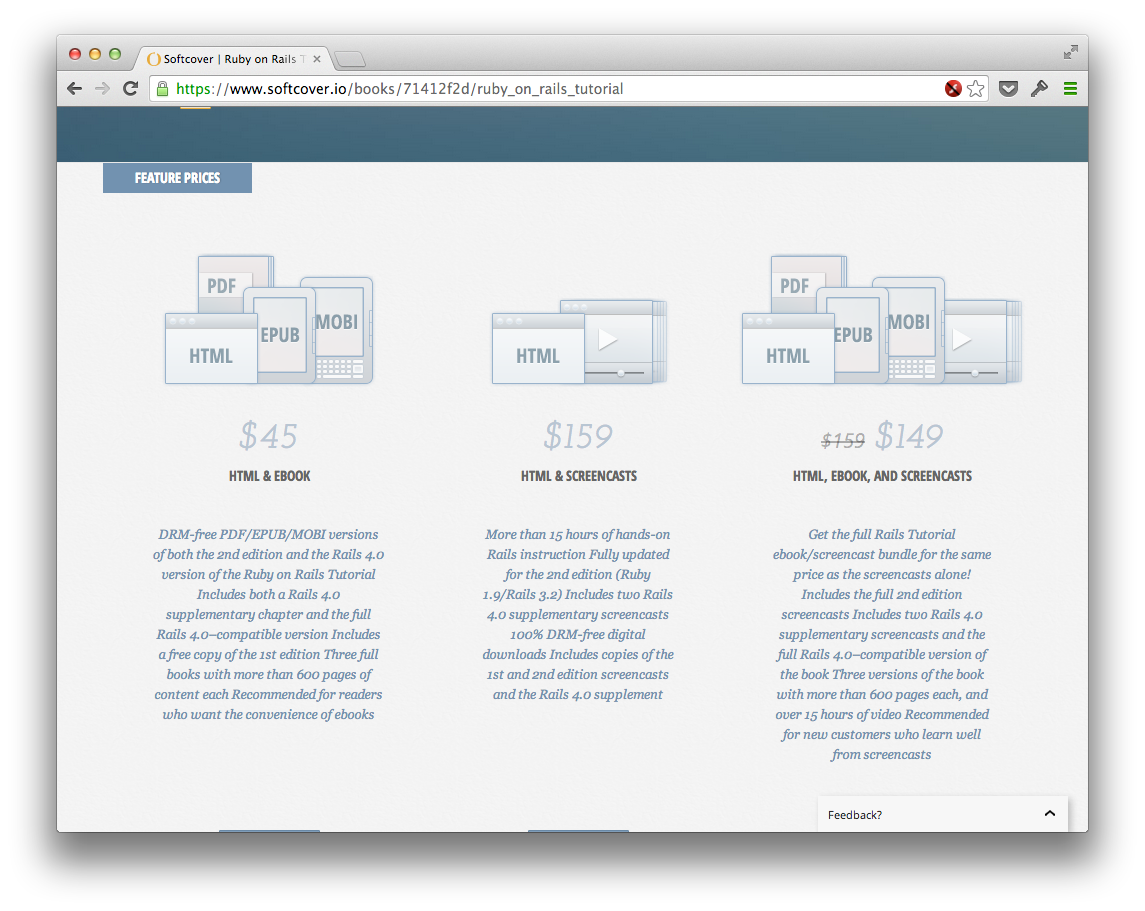
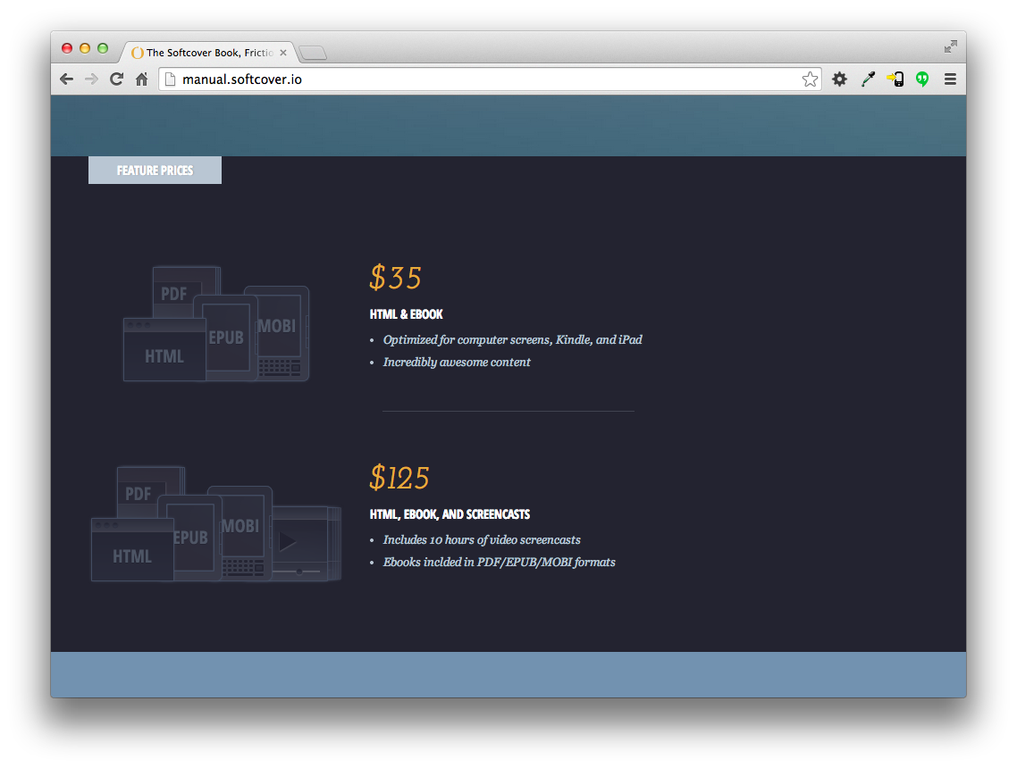
Update documentation for the new marketing.yml

diff --git a/chapters/marketing.md b/chapters/marketing.md
@@ -36,62 +36,32 @@ The marketing file allows you to create up to three product bundles, each with d
 ```yaml
 prices:
   -
-    code: ebooks # unique identifier (shouldn't be changed)
-    name: "HTML & Ebook" # appears as title of the option
-    description: # limited Markdown
-      |
-        Optimized for Kindle and iPad
-        Almost 9000 pages of content
-        Includes a free copy of 1st Edition PDF
-    media: # which downloadable media formats are included in this bundle
-      - html
-      - pdf
-      - epub
-      - mobi
-    price: 4500 # the price in cents
-  -
-    code: screencasts
-    name: "HTML & Screencasts"
+    code: ebooks
+    name: "HTML & Ebook"
     description:
       |
-        More than 15 hours of hands-on Rails instruction
-        Fully updated for the 2nd edition (Ruby 1.9/Rails 3.2)
-        Includes two Rails 4.0 supplementary screencasts
-        100% DRM-free digital downloads
-        Includes copies of the 1st and 2nd edition screencasts and the
-        Rails 4.0 supplement
+        * Optimized for computer screens, Kindle, and iPad
+        * Incredibly awesome content
     media:
-      - html
-      - screencasts
-    price: 15900
+      - ebooks
+    price: 3500
 
   -
     code: all
     name: "HTML, Ebook, and Screencasts"
     description:
       |
-        Get the full Rails Tutorial ebook/screencast bundle for the same
-        price as the screencasts alone!
-        Includes the full 2nd edition screencasts
-        Includes two Rails 4.0 supplementary screencasts and the full
-        Rails 4.0–compatible version of the book
-        Three versions of the book with more than 600 pages each, and
-        over 15 hours of video
-        Recommended for new customers who learn well from screencasts
+        * Includes 10 hours of video screencasts
+        * Ebooks inclded in PDF/EPUB/MOBI formats
     media:
-      - html
-      - pdf
-      - epub
-      - mobi
-      - screencasts
-    price: 14900
-    regular_price: 15900
+      - ebooks
+      - media/screencasts
+    price: 12500
 
 ```
 \end{codelisting}
 
-
-When published, the code in Listing~\ref{code:marketing_prices} produces the marketing page \linebreak shown in Figure~\ref{fig:pricing_options}. Note that the price can optionally include a `regular_\-price` field, which displays a "regular" price with a strike-through (together with the actual price), as seen in the 3rd option in Figure~\ref{fig:pricing_options}.
+\noindent When published, the code in Listing~\ref{code:marketing_prices} produces the marketing page \linebreak shown in Figure~\ref{fig:pricing_options}. % Note that the price can optionally include a `regular_\-price` field, which displays a "regular" price with a strike-through (together with the actual price), as seen in the 3rd option in Figure~\ref{fig:pricing_options}.
 
 
 ![Pricing options.\label{fig:pricing_options}](images/figures/pricing_options.png)
